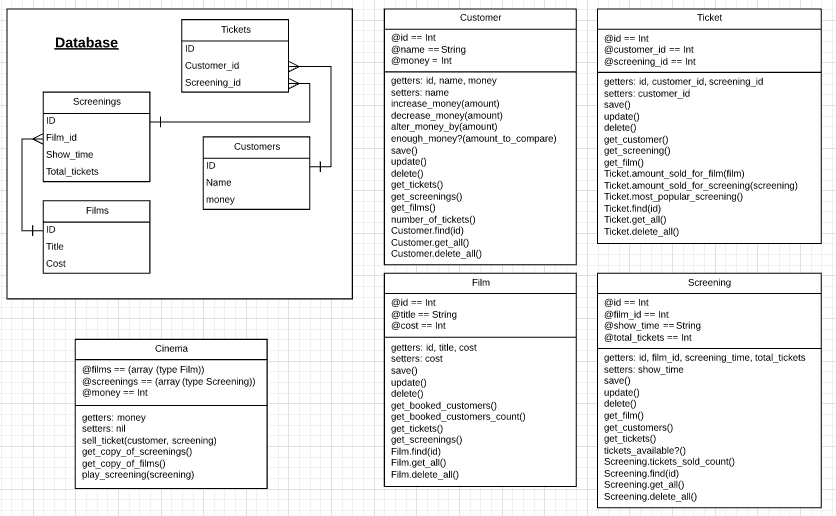
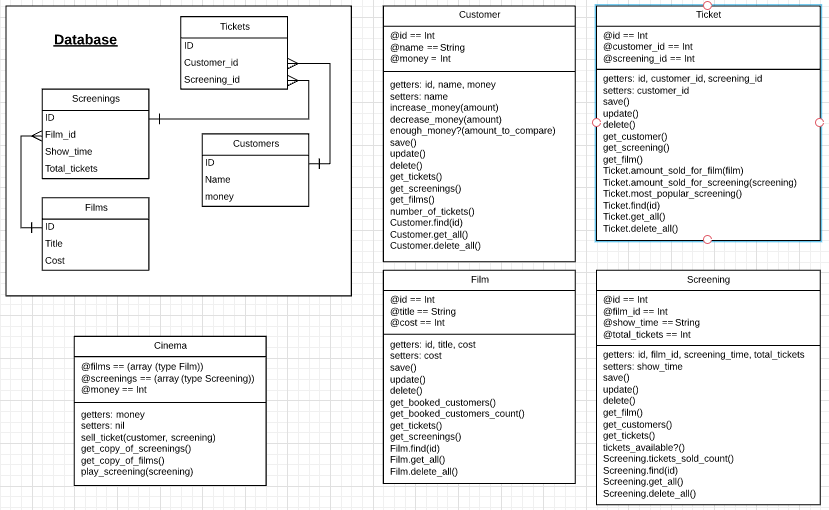
Made and tests money management methods in Customer. Edited diagrams: removed alter_money_by method from Customer

Changed region(s): [[0.0, 0.0, 1.0, 1.0], [0.0603, 0.0588, 0.1508, 0.1176]]

diff --git a/models/customer.rb b/models/customer.rb
@@ -47,6 +47,18 @@ class Customer
     SqlRunner.run(sql_command)
   end
 
+  def increase_money_by(amount)
+    @money += amount
+  end
+
+  def decrease_money_by(amount)
+    @money -= amount
+  end
+
+  def enough_money?(cost_of_item)
+    return @money >= cost_of_item
+  end
+
   private
 
   def run_sql_with_name_and_money(sql_command)

diff --git a/console/console.rb b/console/console.rb
@@ -21,6 +21,8 @@ customer_2.save()
 customer_3.save()
 
 customer_1.name = "Jane Doe"
+customer_1.increase_money_by(1000)
+customer_1.decrease_money_by(600)
 customer_1.update()
 
 customer_4 = Customer.find(customer_1.id)
